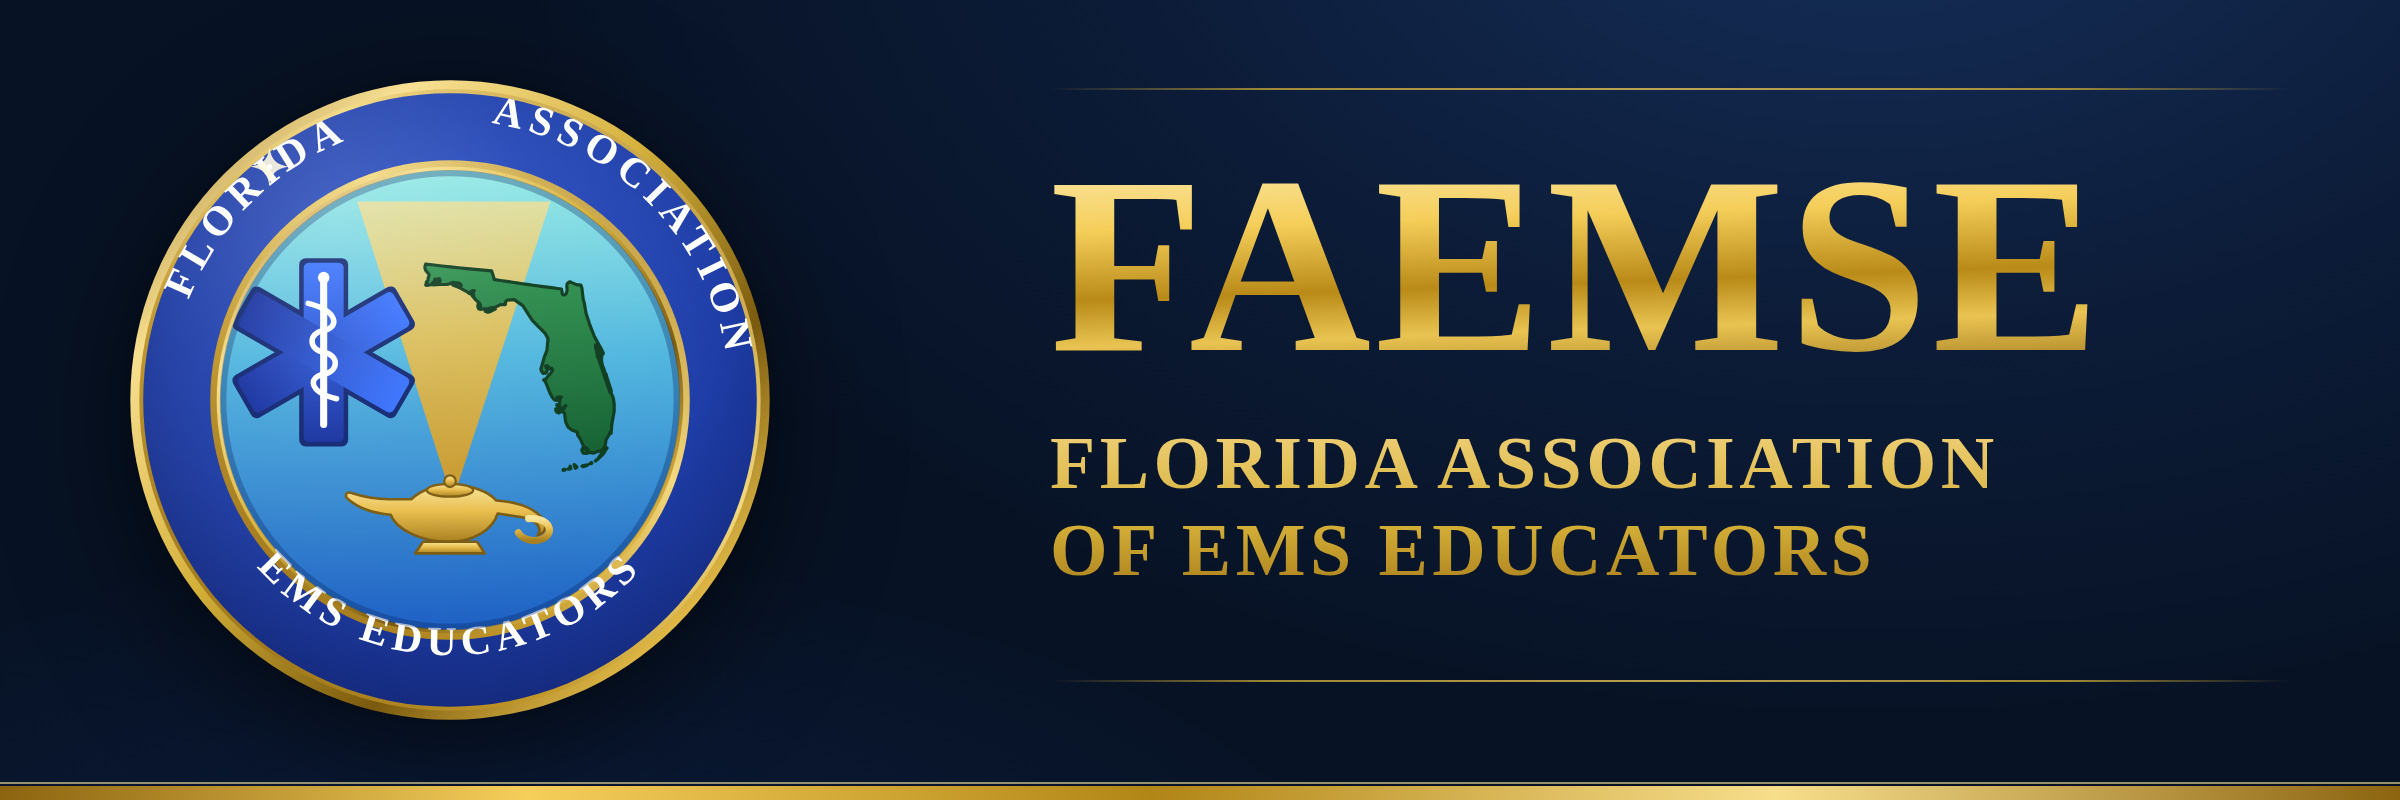
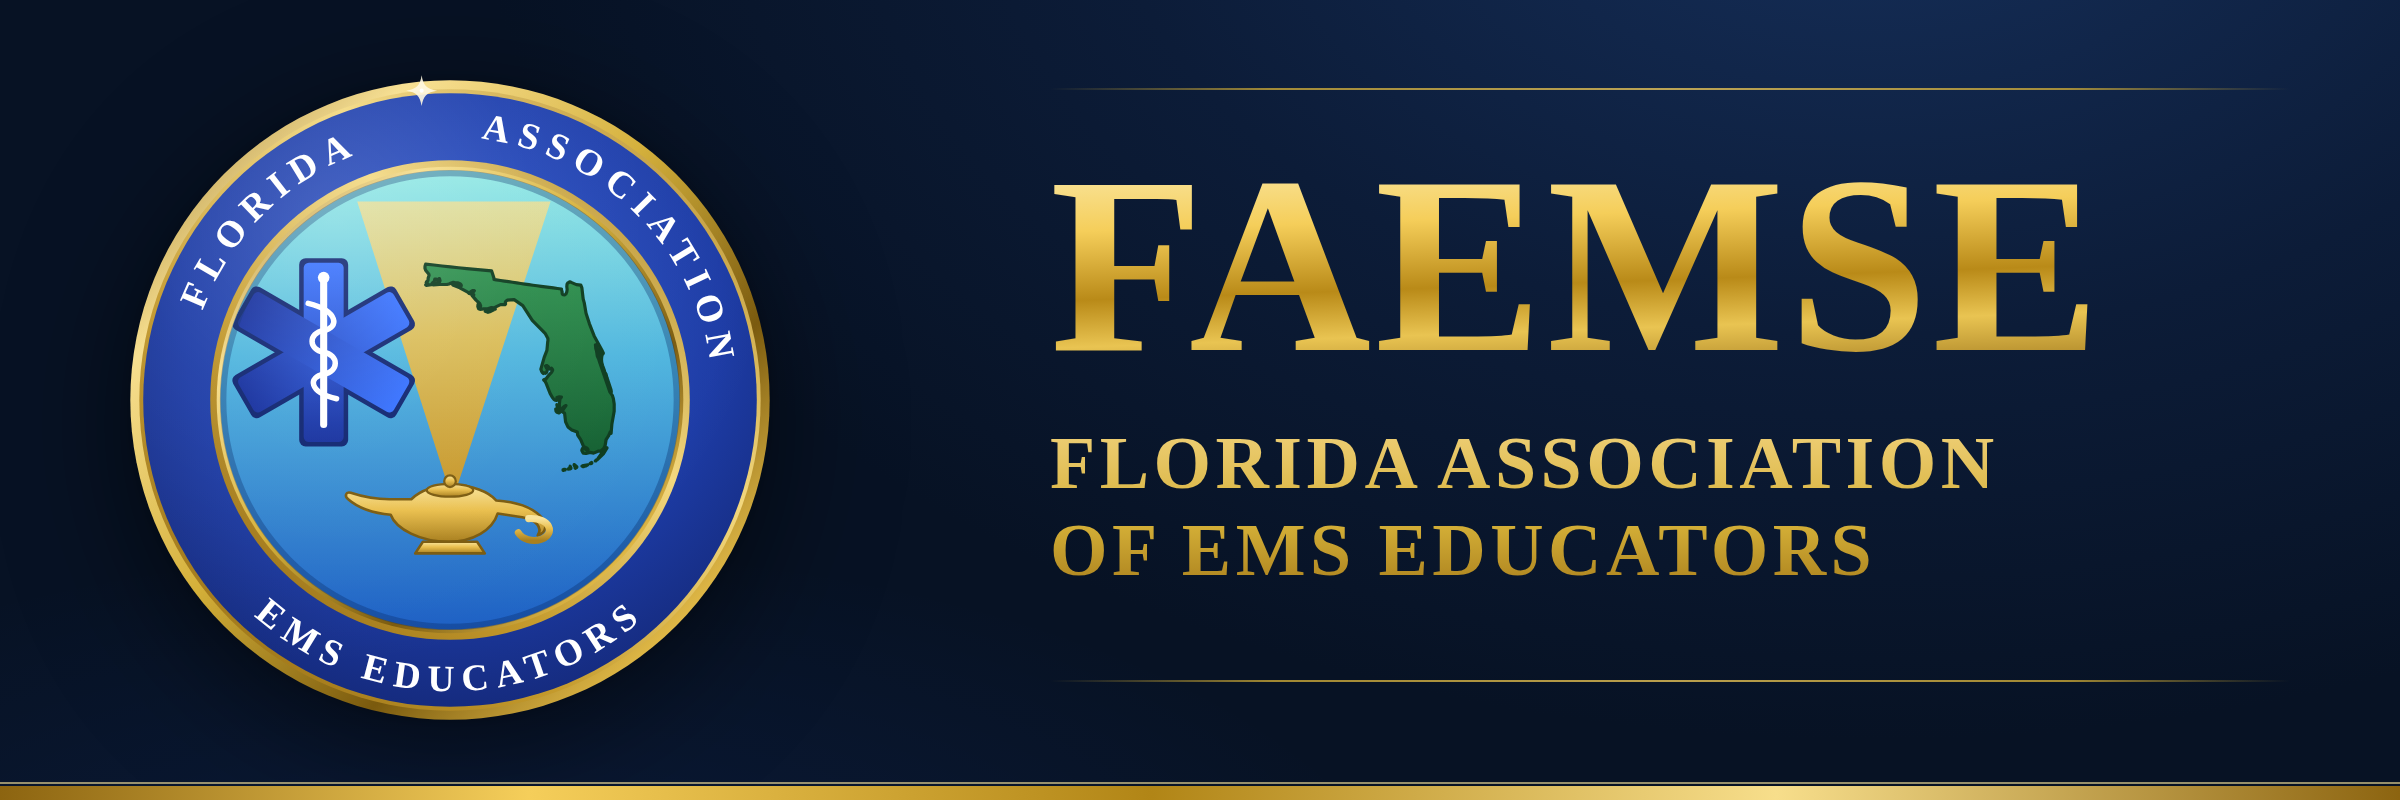
Fix seal lettering collision and enrich the small mark
The ring lettering physically overlapped the gold rings: the top arc
baseline at r=434 pushed 64px capitals out to r~480 past the band edge
at 476, and the bottom arc crossed the inner ring the same way. New
baselines (top 408, bottom 452) with 58px caps center the text in the
band with clear margin on both sides.

The compact mark used at header/footer/favicon sizes was an empty blue
band that read as generic. It now narrows the band and scales the
emblem up 17%, so Florida, the Star of Life, and the lamp read clearly
at 48px. The homepage closing seal steps up to 176px where the fixed
lettering holds. All rendered assets (seal PNG, banner, og image,
favicon) regenerated from the corrected master.

Claude-Session: https://claude.ai/code/session_01WpqkVwvN24RPRhW5WwTryZ

diff --git a/src/pages/Home.tsx b/src/pages/Home.tsx
@@ -414,7 +414,7 @@ export default function Home() {
           <img
             src={`${import.meta.env.BASE_URL}seal.svg`}
             alt="Seal of the Florida Association of EMS Educators"
-            className="w-36 h-36 mx-auto mb-7 drop-shadow-[0_16px_44px_rgba(0,0,0,.55)]"
+            className="w-44 h-44 mx-auto mb-7 drop-shadow-[0_16px_44px_rgba(0,0,0,.55)]"
           />
           <h2 className="font-disp font-bold uppercase leading-[0.94] text-[clamp(48px,7vw,96px)]">
             Raise the
